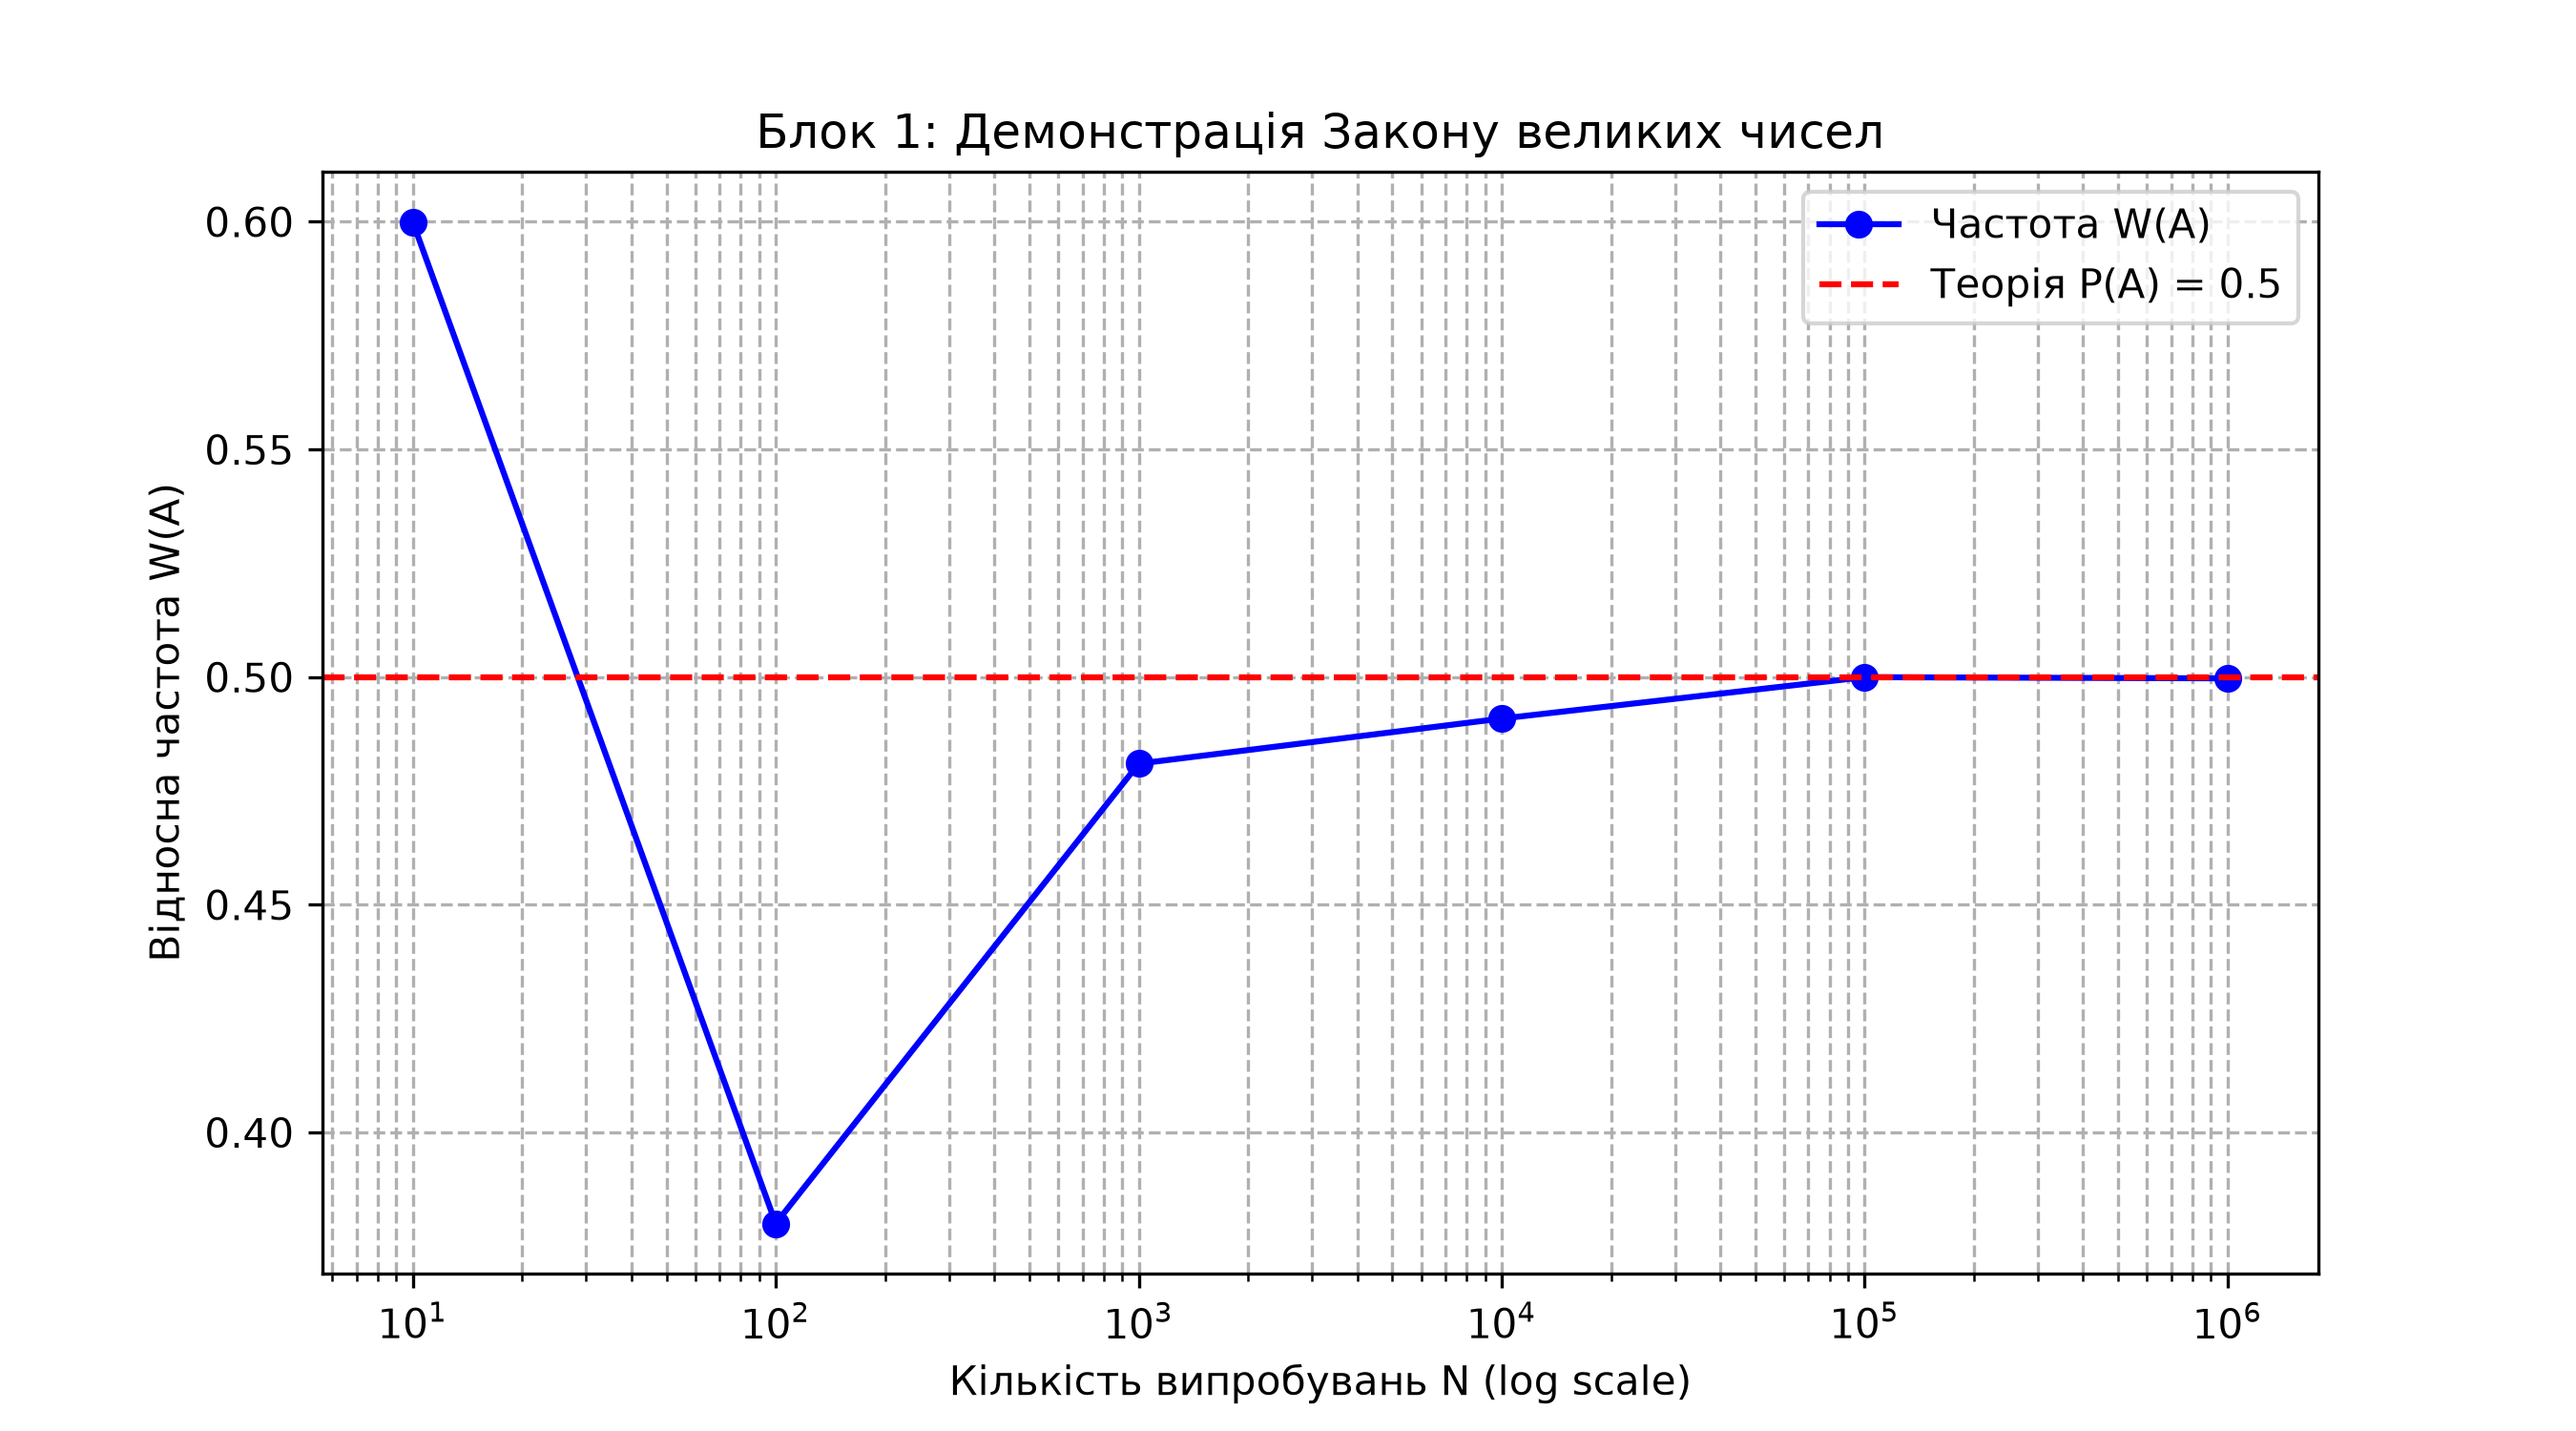
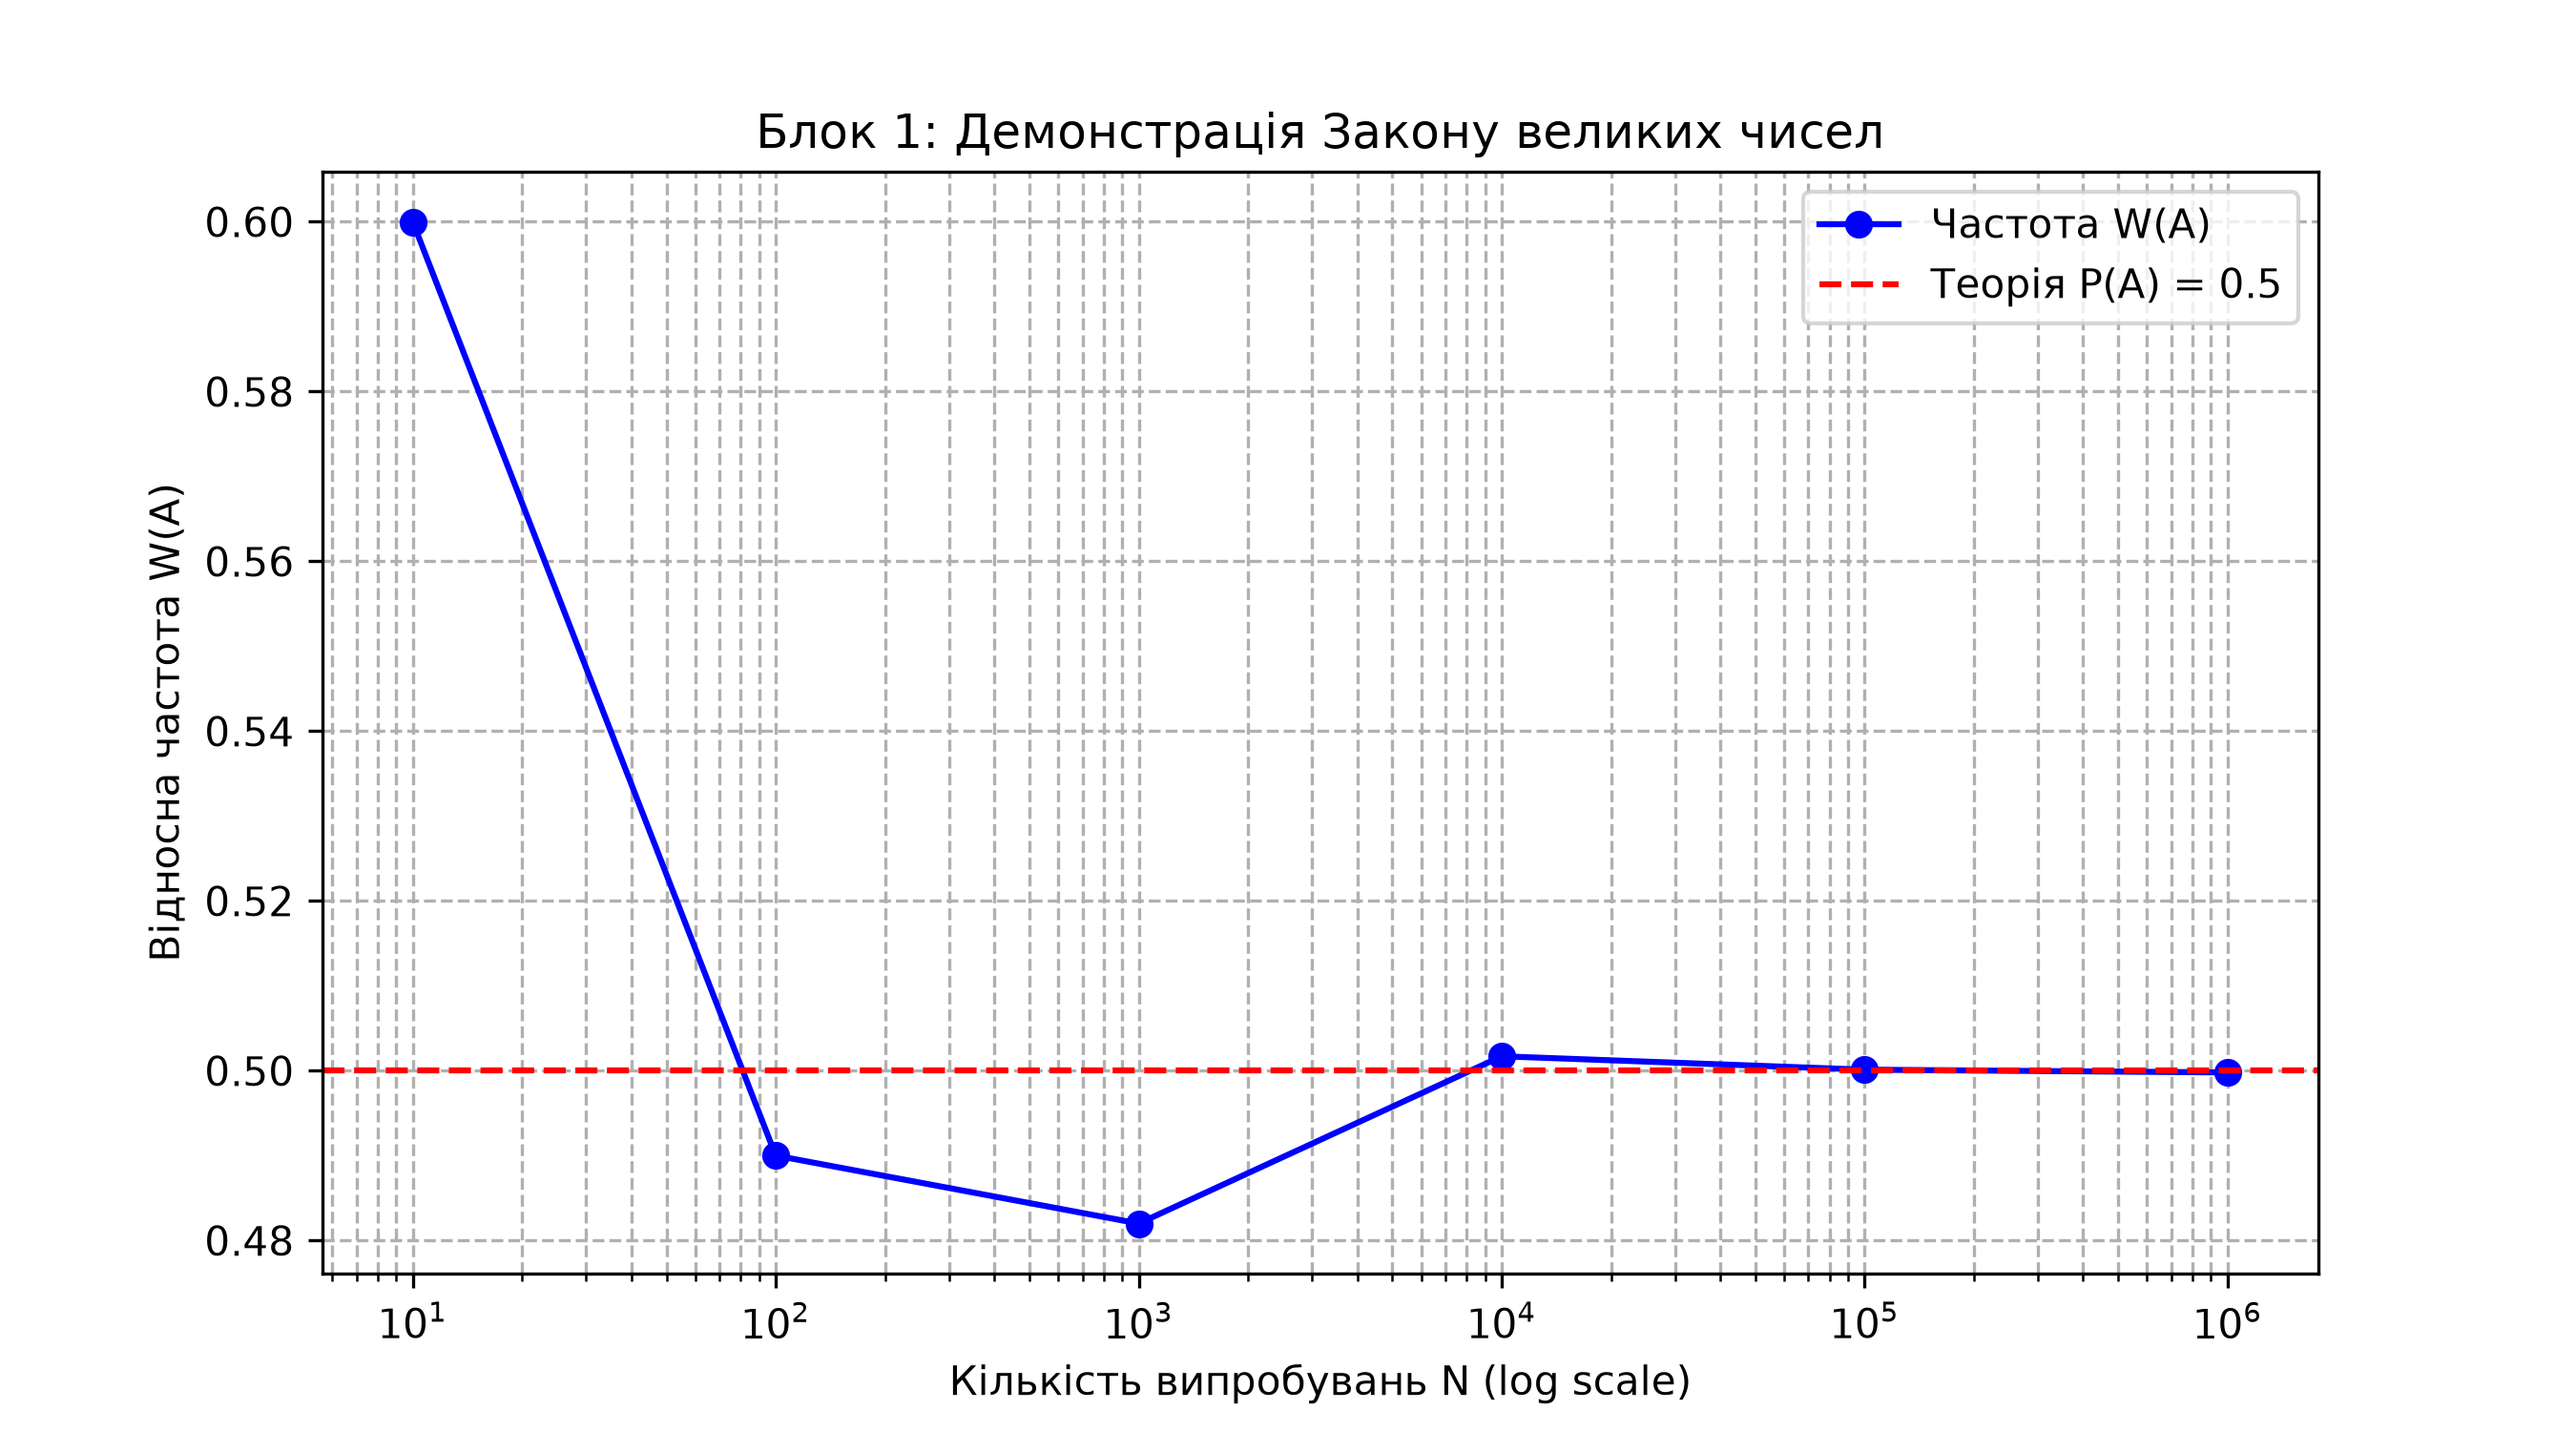
feat: block 3 monte carlo pi estimation and block 4 classifier task

diff --git a/src/main.py b/src/main.py
@@ -33,10 +33,67 @@ def run_block_1():
     plt.title("Блок 1: Демонстрація Закону великих чисел")
     plt.grid(True, which="both", ls="--")
     plt.legend()
+    # Створення папки для збередення графіків, якщо її не існує
     os.makedirs("graphics", exist_ok=True)
     plt.savefig("graphics/block1_lln.png", dpi=300)
     plt.close()
     print("-> Графік збережено в graphics/block1_lln.png\n")
 
+# -------------------------------------------------------------
+# БЛОК 3: Метод Монте-Карло (Оцінка числа pi)
+# -------------------------------------------------------------
+def run_block_3():
+    print("=== БЛОК 3: Оцінка числа Pi методом Монте-Карло ===")
+    sample_sizes = [10, 100, 1000, 10000, 100000, 1000000]
+    pi_estimates = []
+    
+    for N in sample_sizes:
+        inside_circle = 0
+        for _ in range(N):
+            x = random.uniform(-1, 1)
+            y = random.uniform(-1, 1)
+            if x*x + y*y <= 1.0:
+                inside_circle += 1
+        pi_est = 4.0 * inside_circle / N
+        err = abs(pi_est - math.pi)
+        pi_estimates.append(pi_est)
+        print(f"N = {N:>7} | Pi_оцінка = {pi_est:.6f} | Math.pi = {math.pi:.6f} | Похибка = {err:.6f}")
+        
+    # Побудова графіка для Блоку 3
+    plt.figure(figsize=(9, 5))
+    plt.plot(sample_sizes, pi_estimates, marker='s', color='darkgreen', label="Оцінка Pi")
+    plt.axhline(y=math.pi, color='crimson', linestyle='--', label=f"Константа math.pi ({math.pi:.4f})")
+    plt.xscale('log')
+    plt.xlabel("Кількість точок N (log scale)")
+    plt.ylabel("Значення Pi")
+    plt.title("Блок 3: Збіжність методу Монте-Карло до числа Pi")
+    plt.grid(True, which="both", ls="--")
+    plt.legend()
+    plt.savefig("graphics/block3_pi_convergence.png", dpi=300)
+    plt.close()
+    print("-> Графік збережено в graphics/block3_pi_convergence.png\n")
+
+# -------------------------------------------------------------
+# БЛОК 4: Професійні комплексні задачі (Класифікатор )
+# -------------------------------------------------------------
+
+def run_block_4():
+    print("=== БЛОК 4: Професійна задача (Варіант 4 - Класифікатор) ===")
+    total = 5000
+    correct = 4600
+    error = 400
+    
+    p_correct = correct / total
+    p_error = error / total
+    
+    print(f"Всього об'єктів: {total}")
+    print(f"P(Correct) = {correct}/{total} = {p_correct:.4f} ({p_correct*100:.1f}%)")
+    print(f"P(Error)   = {error}/{total} = {p_error:.4f} ({p_error*100:.1f}%)")
+    print(f"Перевірка повної групи: P(Correct) + P(Error) = {p_correct + p_error:.1f}\n")
+
 if __name__ == "__main__":
+    run_block_1()    run_block_1()    # Фіксуємо seed для відтворюваності, або можна прибрати для випадковості
+    random.seed(42)
     run_block_1()
+    run_block_3()
+    run_block_4()
